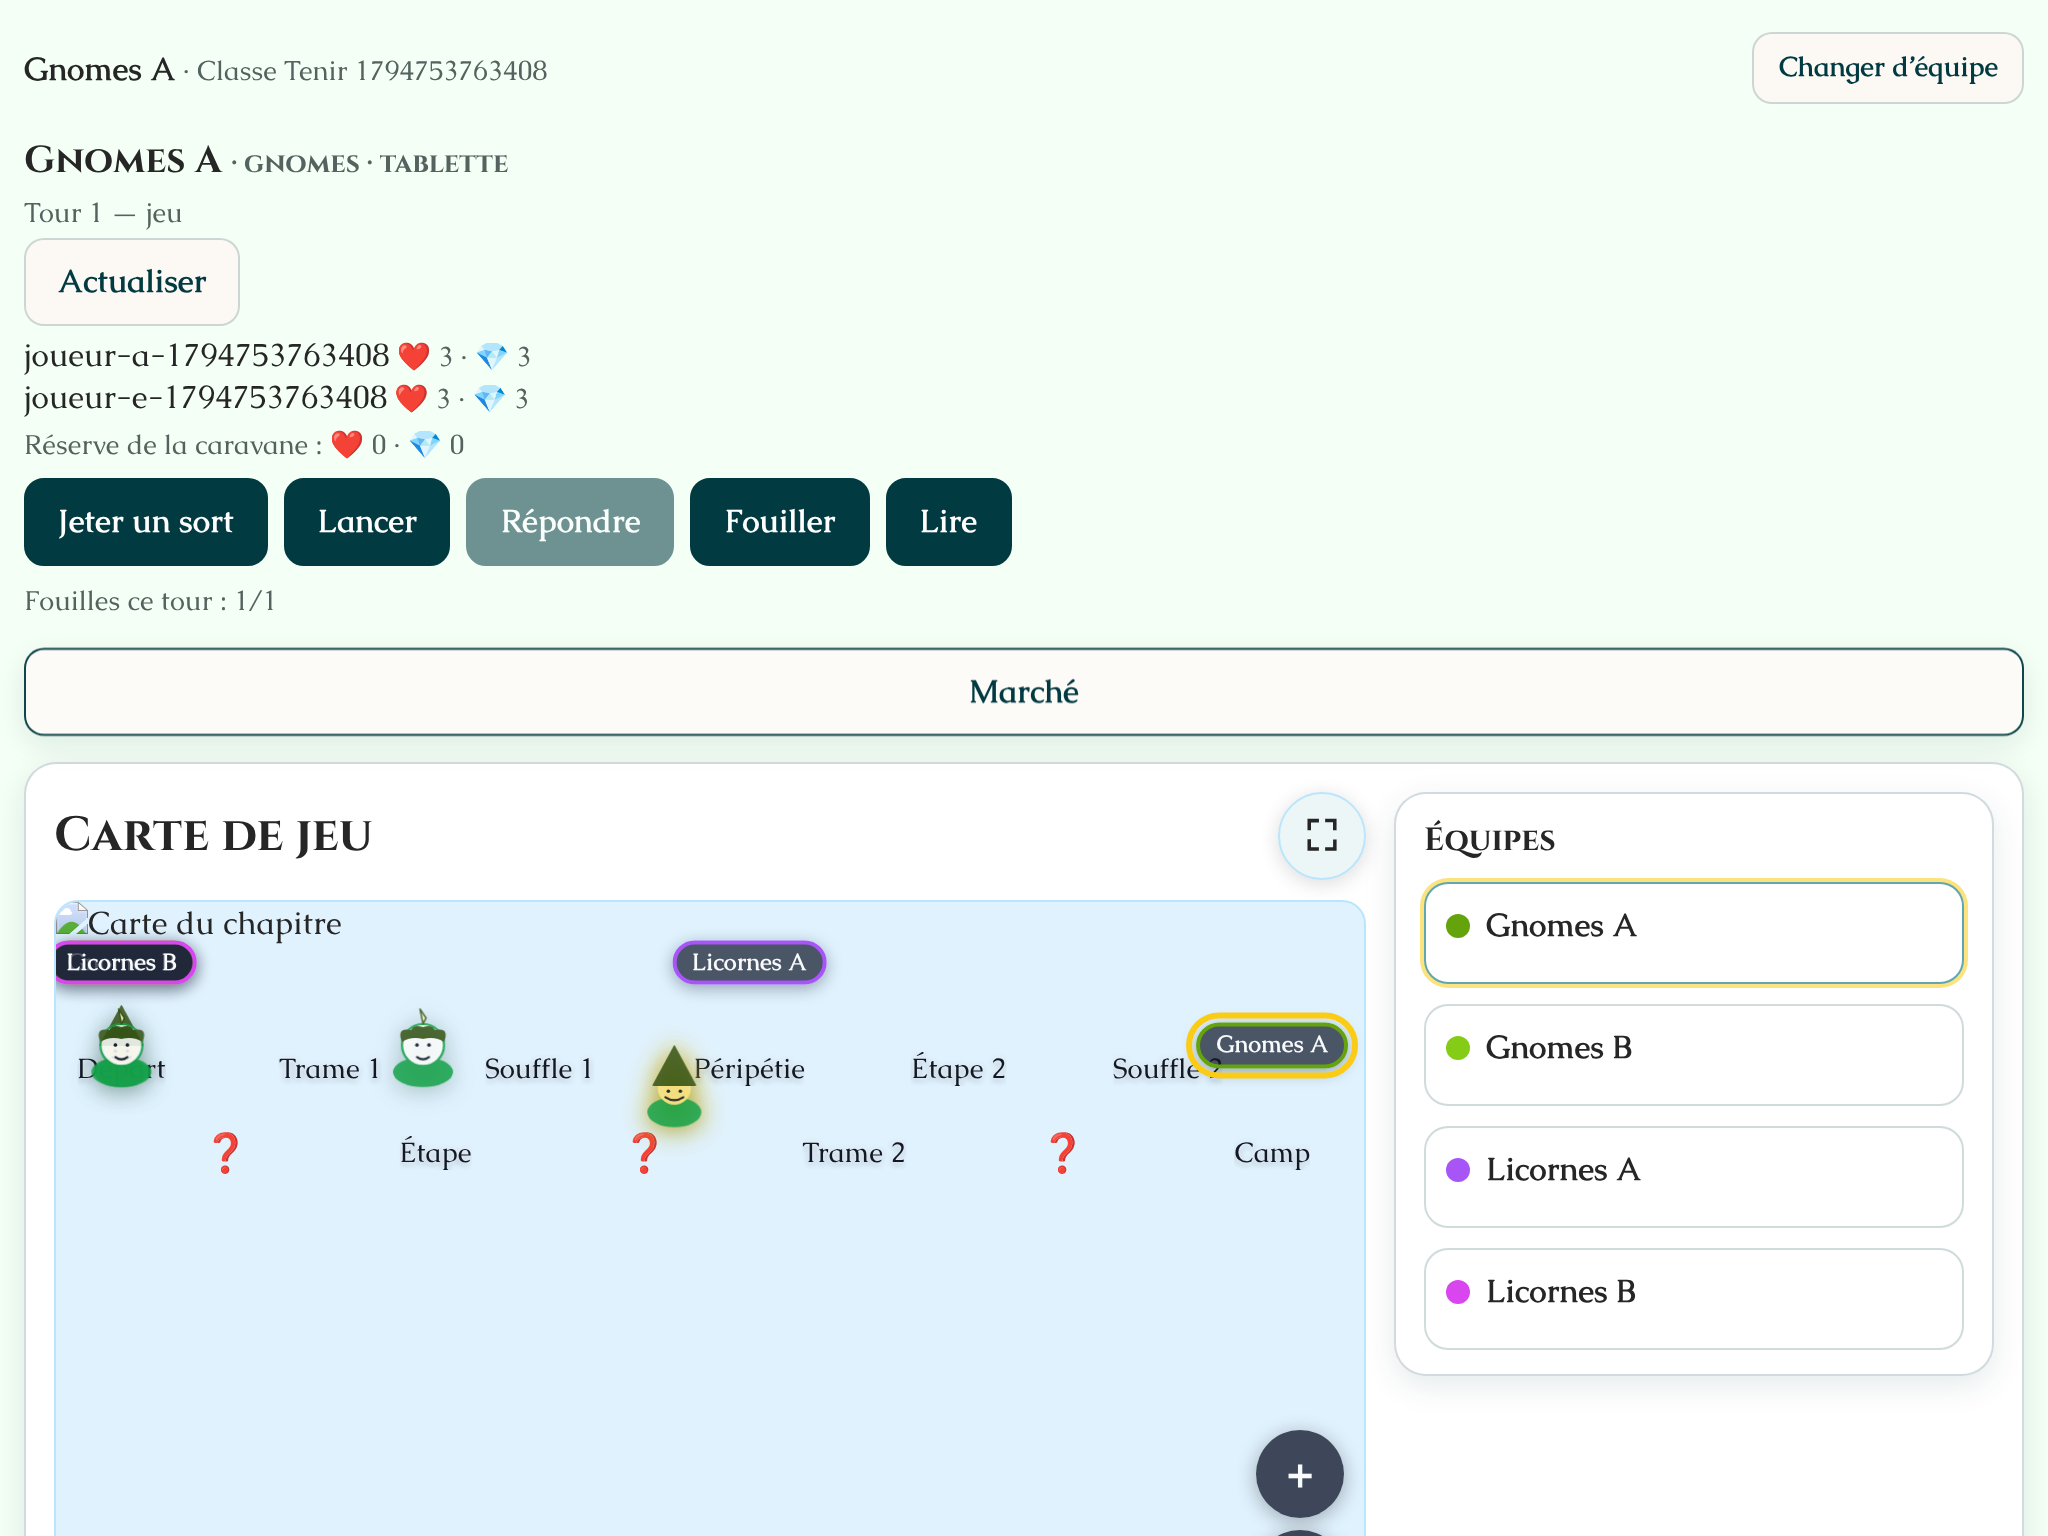
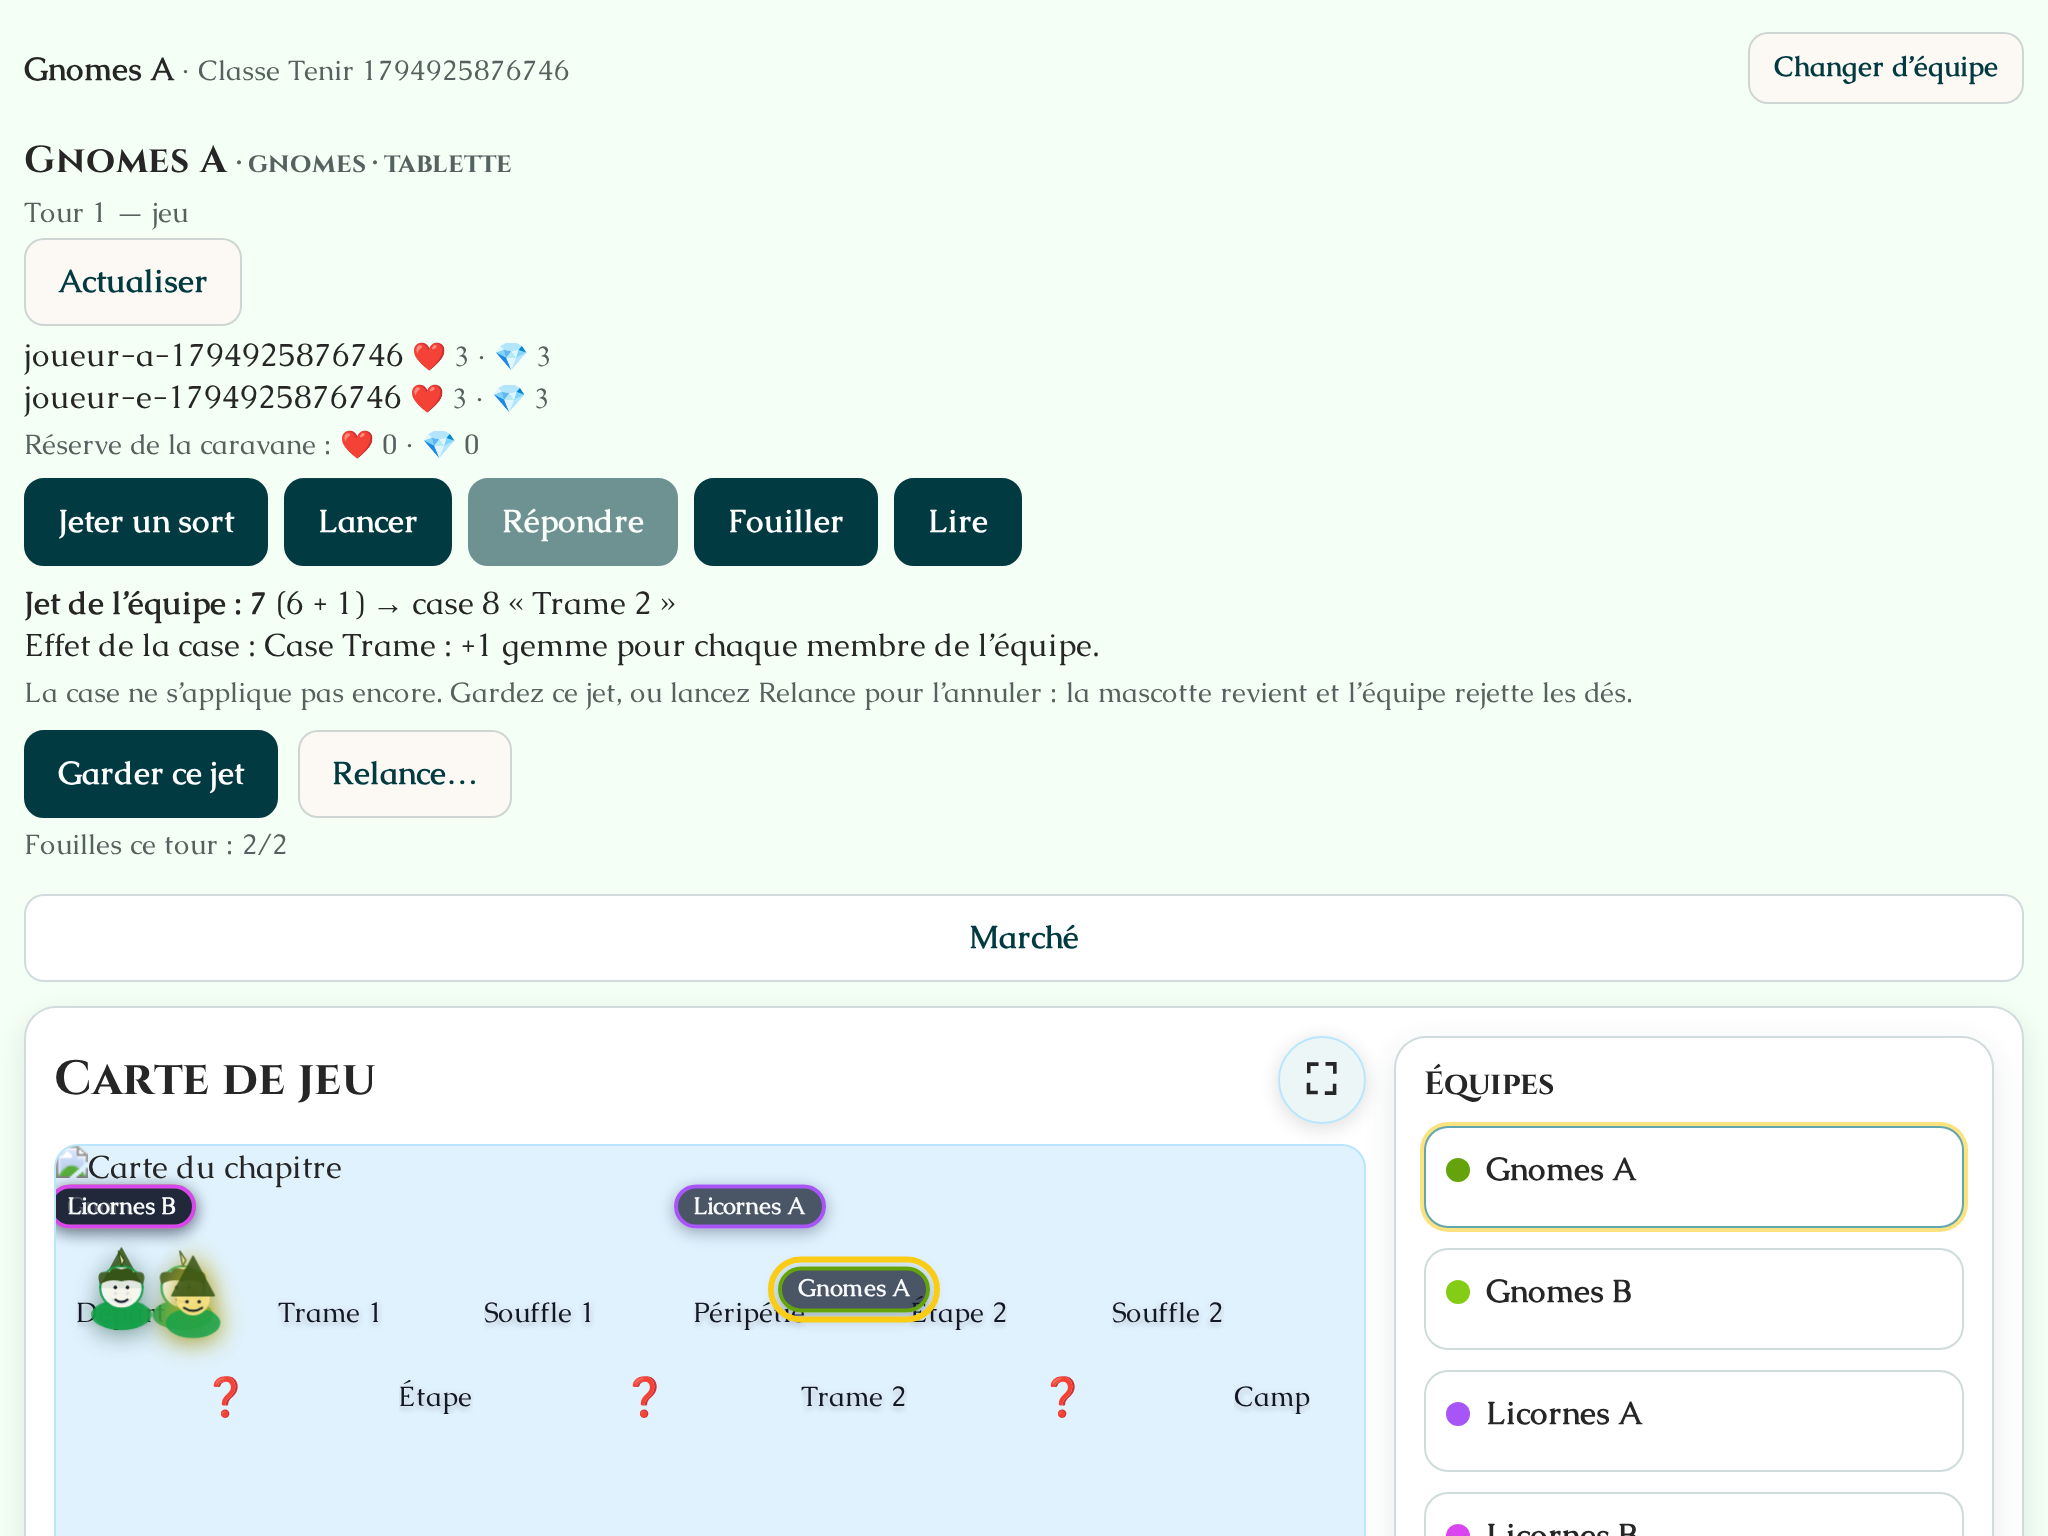
test(gl): e2e des tablettes — pot de Sentier (Abri s'ouvre au chapitre 2) ; captures de l'écran d'équipe
Captures régénérées par l'e2e : écran d'équipe (Trame à +1 gemme, 2 fouilles par tour) et pot
d'un sort sur tablette.

Claude-Session: https://claude.ai/code/session_01KYTRNZrjnvbwAp6QnM3fo1

diff --git a/e2e/gl-tenir-tablettes.spec.js b/e2e/gl-tenir-tablettes.spec.js
@@ -175,8 +175,9 @@ test.describe('GL — tablettes d’équipe par le lien de classe', () => {
 
     // Le pot d'un sort sur la tablette : part automatique des présents, « pas moi » par ligne.
     const potier = tablettes[1].page;
+    // Sentier (gnome, 2 cœurs, chapitre 1 : ensemble unifié M6 — Abri s’ouvre au chapitre 2).
     await potier.getByRole('button', { name: 'Jeter un sort' }).click();
-    await potier.getByTestId('gl-sorts-moments').locator('[data-sort="SL043"]').click();
+    await potier.getByTestId('gl-sorts-moments').locator('[data-sort="SL042"]').click();
     const lignes = potier.locator('[data-testid^="gl-pot-ligne-"]');
     await expect(lignes).toHaveCount(2, { timeout: 15_000 });
     await expect(lignes.first()).toContainText('❤ 1');
